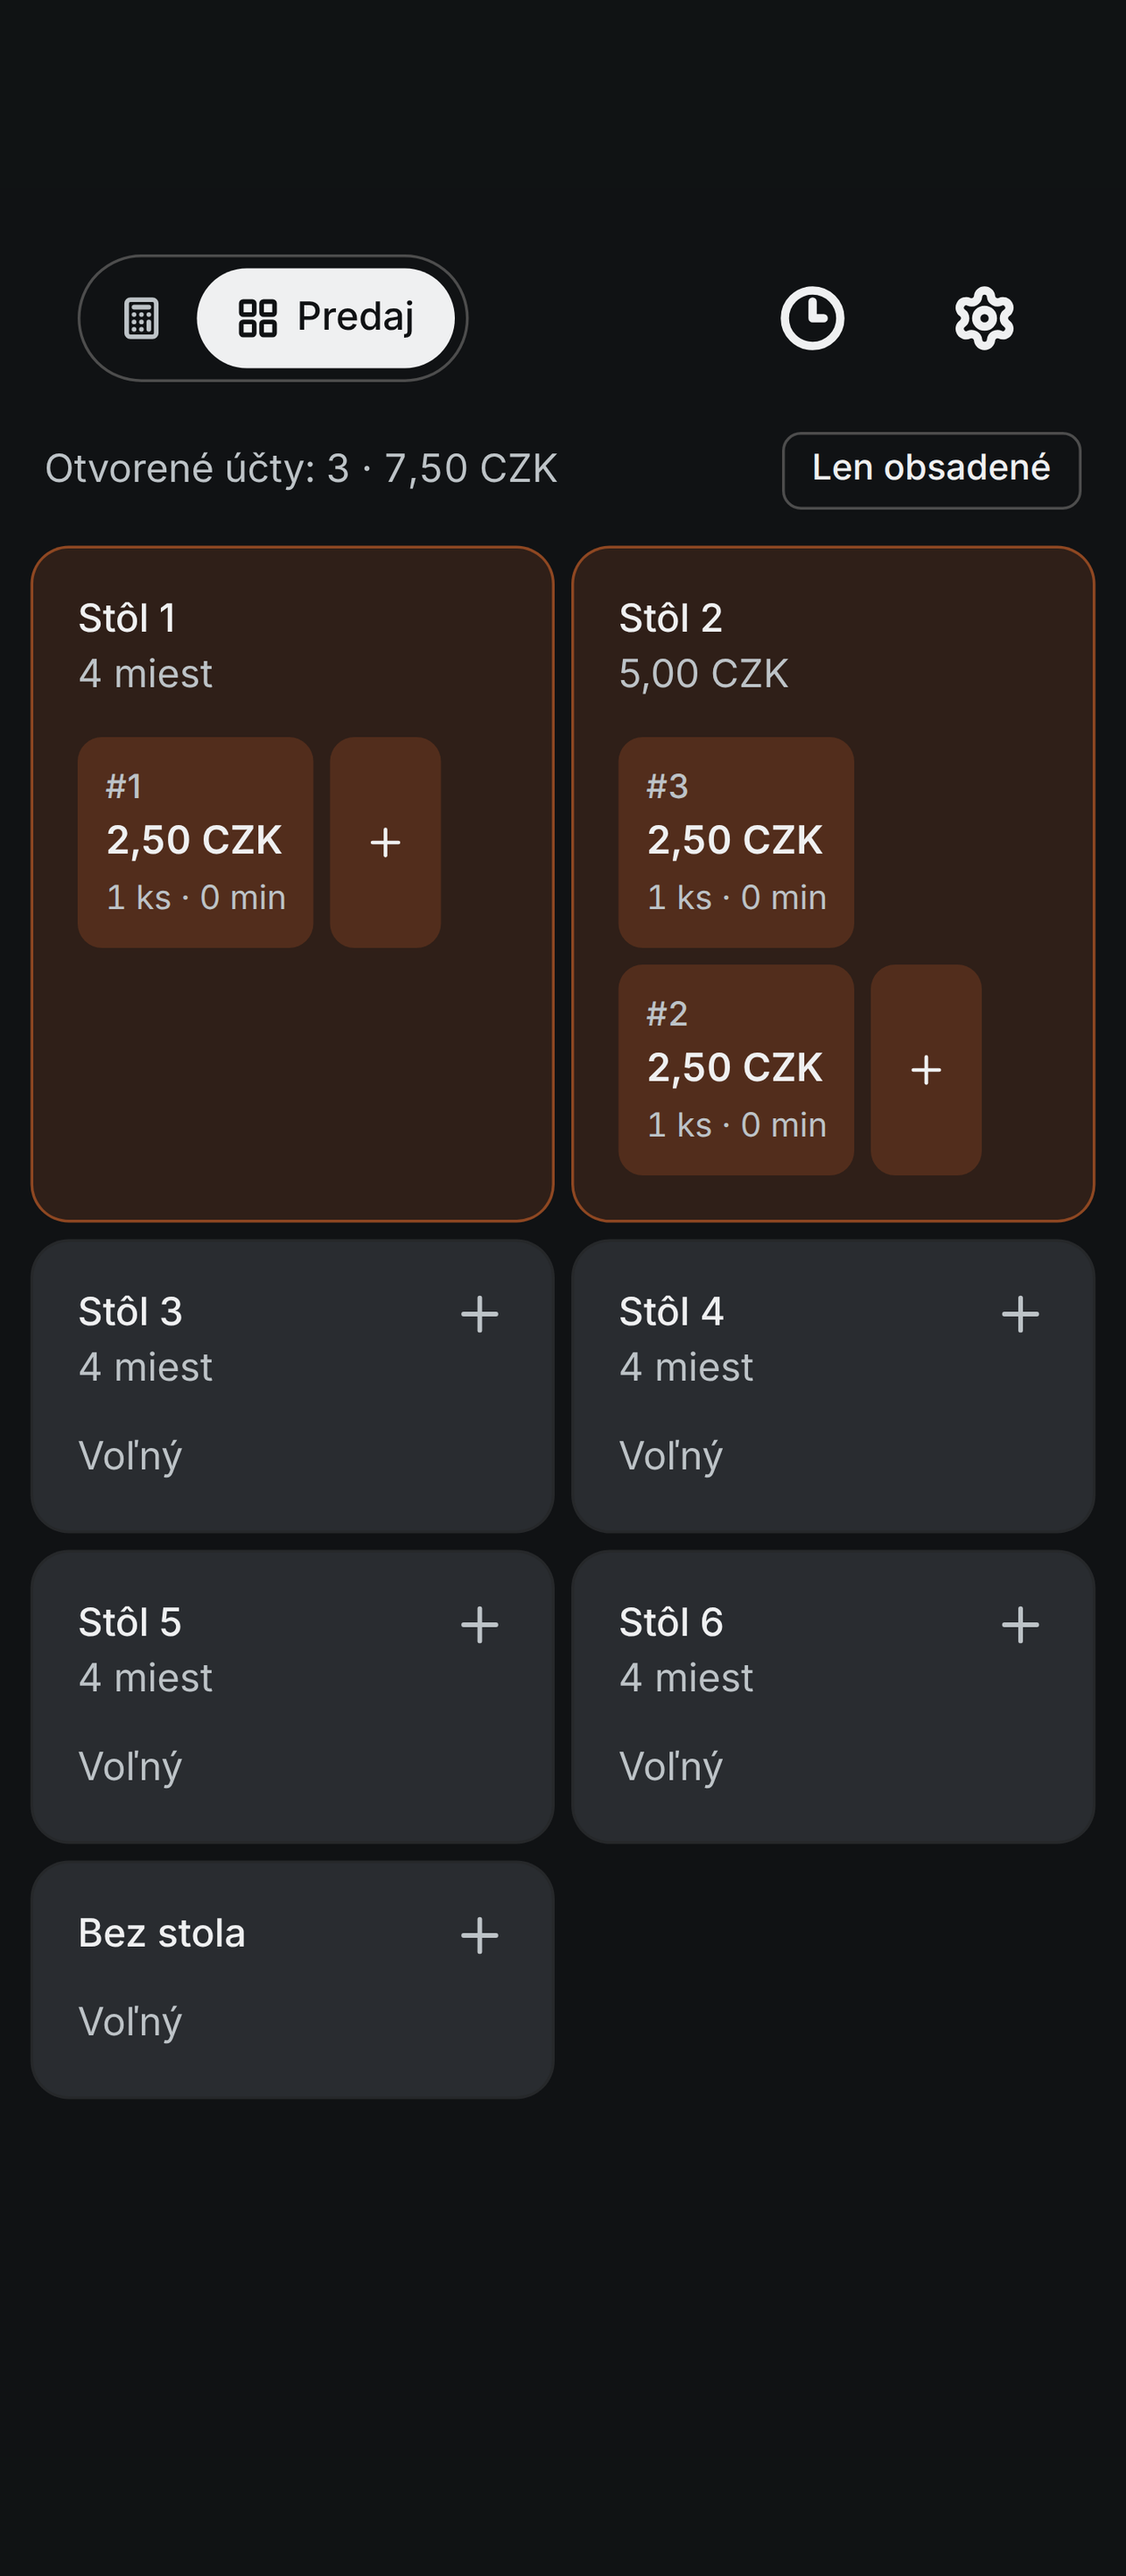
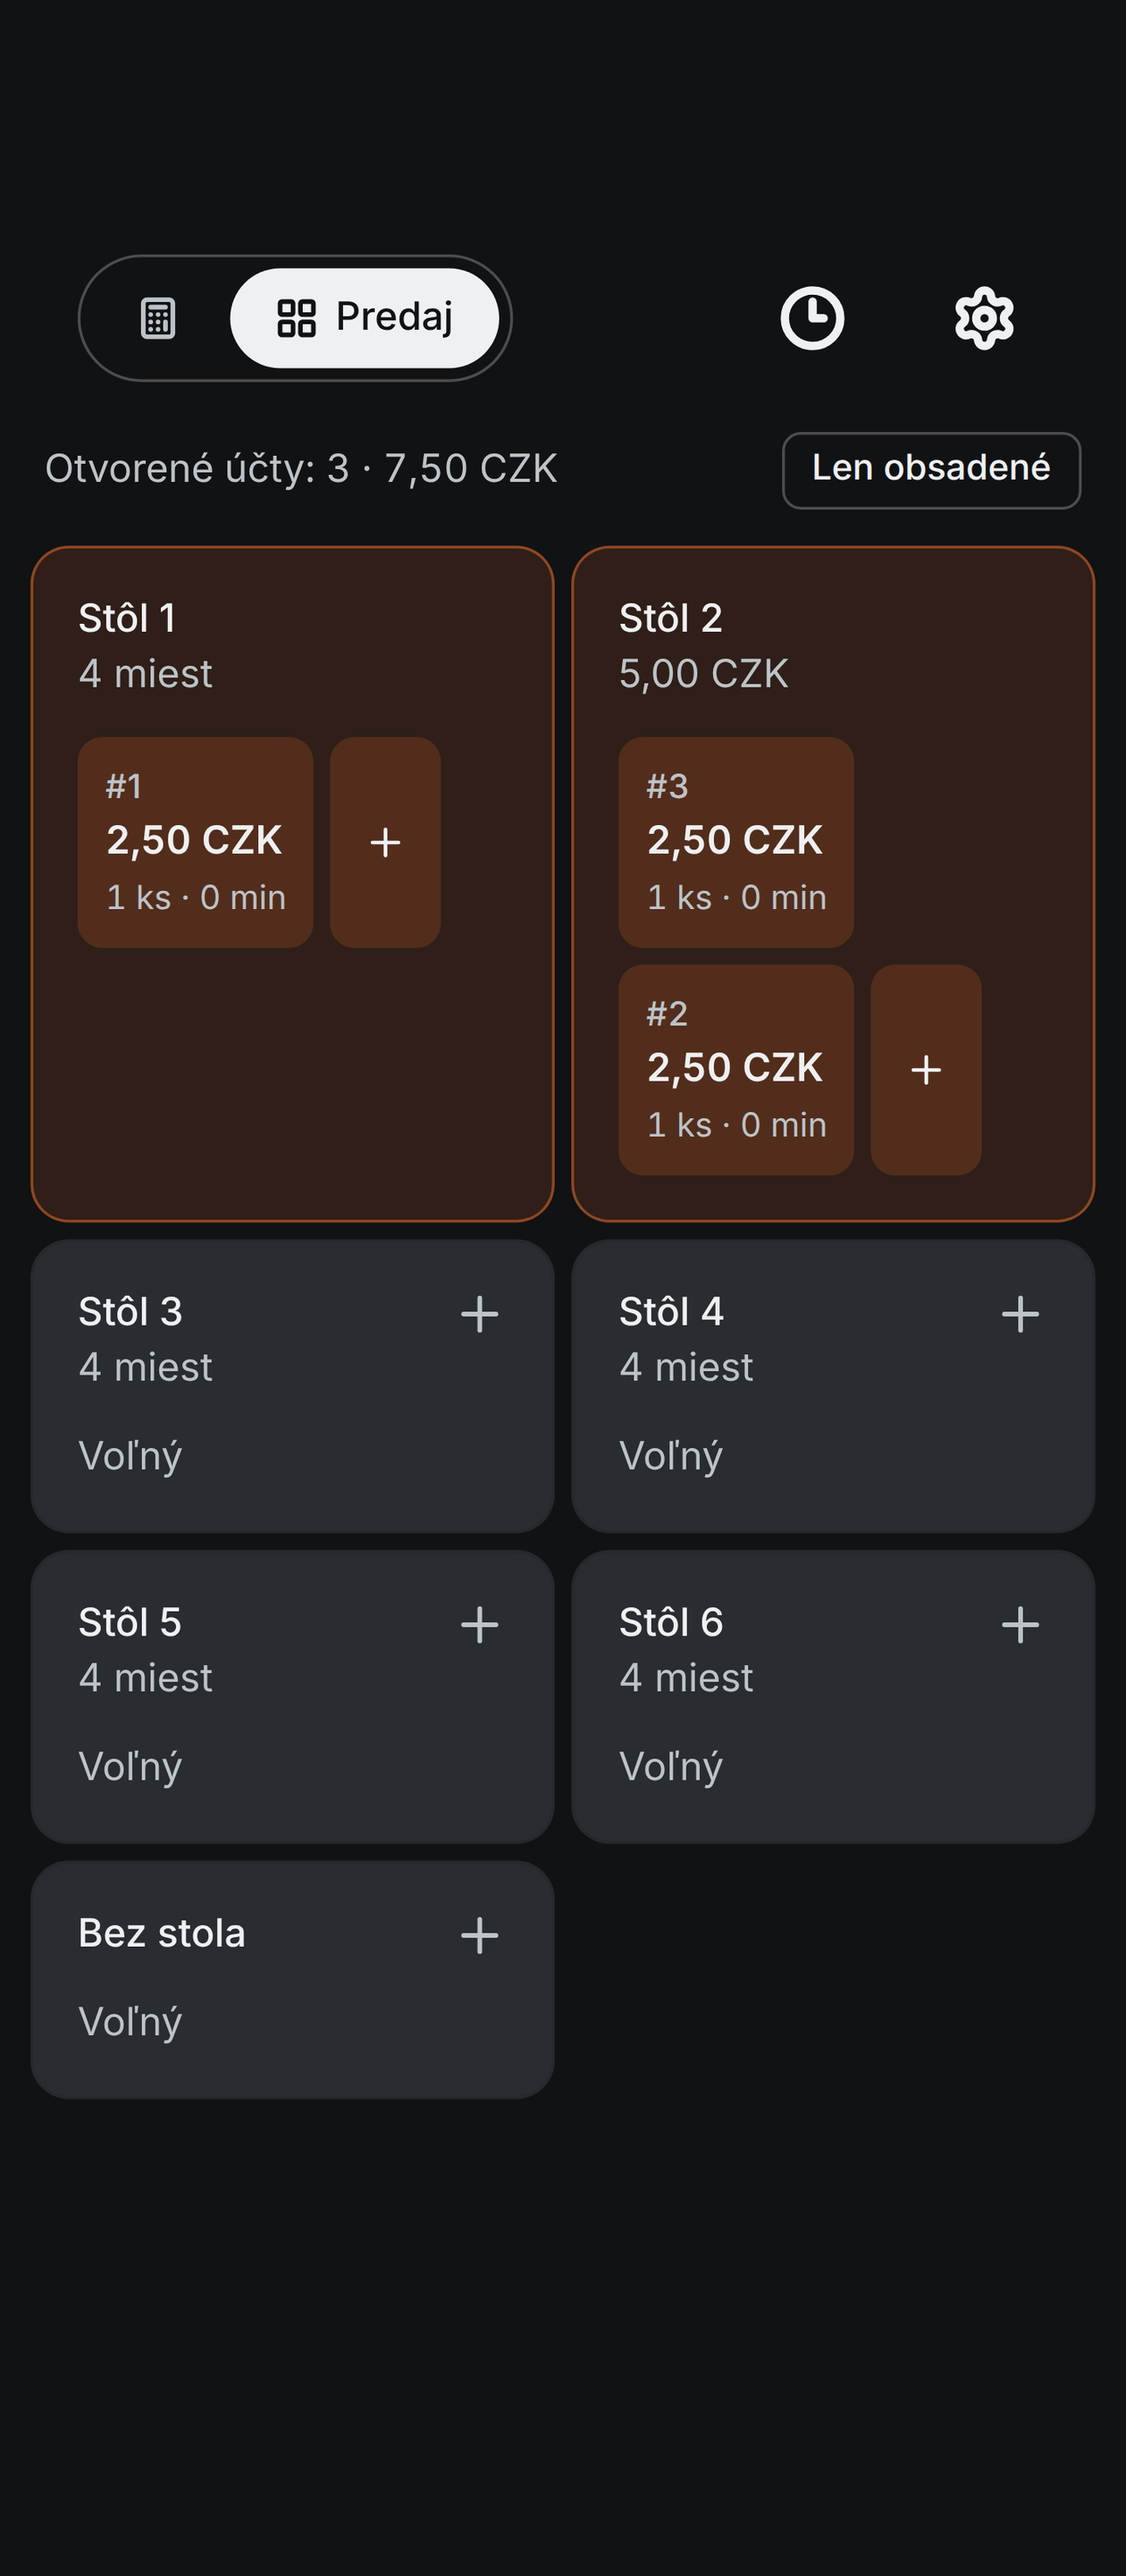
feat(payment): slide the payment method pill like the home mode switch
The payment method tabs now share the home switch's control: the pill
slides between methods and an inactive method shows only its icon. The
motion parts move into src/components/sliding-pill.tsx so both controls
animate identically, and both get wider side padding so an icon-only
segment no longer looks cramped.

Regenerates the home, tables and payment doc screenshots.

Claude-Session: https://claude.ai/code/session_01BK6n6yMEXHuB1LsHBmX4Pa

Changed region(s): [[0.1238, 0.0937, 0.4643, 0.1561]]

diff --git a/src/routes/_terminal.index.tsx b/src/routes/_terminal.index.tsx
@@ -1,8 +1,13 @@
 import { sqliteTrue } from "@evolu/common"
 import { createFileRoute, Link, useNavigate } from "@tanstack/react-router"
 import { Calculator, Clock3, LayoutGrid, Settings } from "lucide-react"
-import { LayoutGroup, motion, useReducedMotion } from "motion/react"
+import { LayoutGroup, motion } from "motion/react"
 import { Suspense } from "react"
+import {
+  SlidingPillSegmentContent,
+  slidingPillLayout,
+  useSlidingPillTransition,
+} from "@/components/sliding-pill.tsx"
 import { Button } from "@/components/ui/button.tsx"
 import { ToggleGroup, ToggleGroupItem } from "@/components/ui/toggle-group.tsx"
 import { settingsQuery } from "@/core/modules/app-settings/app-settings-queries.ts"
@@ -19,7 +24,6 @@ import { useEvoluQuery } from "@/hooks/use-evolu-query.ts"
 import { useScreenWakeLock } from "@/hooks/use-screen-wake-lock.ts"
 import { useTerminalHomeMode } from "@/hooks/use-terminal-home-mode.ts"
 import { useTranslation } from "@/hooks/use-translation.ts"
-import { cn } from "@/lib/utils.ts"
 
 export const Route = createFileRoute("/_terminal/")({
   component: TerminalHomePage,
@@ -41,33 +45,15 @@ const homeModeItems = [
 const Header = () => {
   const { t } = useTranslation()
   const [terminalHomeMode, setTerminalHomeMode] = useTerminalHomeMode()
-  const shouldReduceMotion = useReducedMotion()
-  const transition = shouldReduceMotion
-    ? { duration: 0 }
-    : { type: "spring" as const, bounce: 0, duration: 0.35 }
-  // A label mounts straight into its final spot while its segment is still
-  // growing out of the icon-only size, so it waits until the pill has
-  // mostly arrived instead of flashing in past the pill's edge.
-  const labelTransition = shouldReduceMotion
-    ? { duration: 0 }
-    : { ...transition, opacity: { delay: 0.2, duration: 0.15 } }
+  const transition = useSlidingPillTransition()
 
   return (
     <header className="px-4 flex items-center justify-between">
       {/*
        * Both modes stay on screen so the control reads as a switch rather
        * than a mystery icon; only the active one spells out its label, which
-       * keeps "Klávesnice" from crowding the header on a phone.
-       *
-       * Switching is one shared `motion` layout animation: the group and
-       * both segments animate to their new natural widths while the pill
-       * (`layoutId`) slides between them. Everything has to be in that one
-       * layout tree — a pill animating on its own chases a segment that is
-       * still resizing under it and overstretches. Icon and label are
-       * `layout="position"` so the segments' scale doesn't squash them, and
-       * radii are inline because motion only scale-corrects inline ones.
-       * Segments must not clip (`overflow-hidden`): the pill lives inside the
-       * target segment and would be cut off instead of sliding in.
+       * keeps "Klávesnice" from crowding the header on a phone. The motion
+       * is `sliding-pill.tsx`'s.
        */}
       <LayoutGroup>
         <ToggleGroup
@@ -79,13 +65,7 @@ const Header = () => {
           }}
           // Not 0: the vendored group squares off joined segments at spacing 0.
           spacing={0.5}
-          render={
-            <motion.div
-              layout
-              transition={transition}
-              style={{ borderRadius: 9999 }}
-            />
-          }
+          render={<motion.div {...slidingPillLayout(transition)} />}
           className="border border-input p-1"
         >
           {homeModeItems.map(({ mode, icon: Icon, label }) => {
@@ -95,40 +75,15 @@ const Header = () => {
                 key={mode}
                 value={mode}
                 aria-label={t(label)}
-                render={
-                  <motion.button
-                    layout
-                    transition={transition}
-                    style={{ borderRadius: 9999 }}
-                  />
-                }
-                className={cn(
-                  "relative isolate h-9 min-w-9 gap-0 text-muted-foreground transition-colors duration-300 hover:bg-transparent aria-pressed:bg-transparent aria-pressed:text-background motion-reduce:transition-none",
-                  active ? "px-3.5" : "px-2.5"
-                )}
+                render={<motion.button {...slidingPillLayout(transition)} />}
+                className="relative isolate h-9 min-w-9 gap-0 px-4 text-muted-foreground transition-colors duration-300 hover:bg-transparent aria-pressed:bg-transparent aria-pressed:text-background motion-reduce:transition-none"
               >
-                {active && (
-                  <motion.span
-                    layoutId="home-mode-pill"
-                    transition={transition}
-                    style={{ borderRadius: 9999 }}
-                    className="absolute inset-0 -z-10 bg-foreground"
-                  />
-                )}
-                <motion.span layout="position" transition={transition}>
-                  <Icon className="size-4" strokeWidth={2.5} />
-                </motion.span>
-                {active && (
-                  <motion.span
-                    layout="position"
-                    initial={{ opacity: 0 }}
-                    animate={{ opacity: 1 }}
-                    transition={labelTransition}
-                    className="whitespace-nowrap pl-1.5"
-                  >
-                    {t(label)}
-                  </motion.span>
-                )}
+                <SlidingPillSegmentContent
+                  active={active}
+                  pillId="home-mode-pill"
+                  icon={<Icon className="size-4" strokeWidth={2.5} />}
+                  label={t(label)}
+                />
               </ToggleGroupItem>
             )
           })}

diff --git a/src/features/payment-wait/payment-wait-page.tsx b/src/features/payment-wait/payment-wait-page.tsx
@@ -8,11 +8,17 @@ import {
   XIcon,
   ZapIcon,
 } from "lucide-react"
+import { LayoutGroup, motion } from "motion/react"
 import { useCallback, useEffect, useMemo, useState } from "react"
 import { toast } from "sonner"
 
 import { FadeHeader } from "@/components/fade-header.tsx"
 import { RouteMessage } from "@/components/route-message.tsx"
+import {
+  SlidingPillSegmentContent,
+  slidingPillLayout,
+  useSlidingPillTransition,
+} from "@/components/sliding-pill.tsx"
 import { SuccessPanel } from "@/components/success-panel.tsx"
 import { Button } from "@/components/ui/button.tsx"
 import {
@@ -109,6 +115,7 @@ function PaymentWaitRequest({ paymentId }: { readonly paymentId: PaymentId }) {
   const locale = useLocale()
   const navigate = useNavigate()
   const confirm = useConfirmDialog()
+  const pillTransition = useSlidingPillTransition()
   const [cashPaymentPending, setCashPaymentPending] = useState(false)
   const [cashPaymentErrorKey, setCashPaymentErrorKey] =
     useState<TranslationKey | null>(null)
@@ -640,18 +647,39 @@ function PaymentWaitRequest({ paymentId }: { readonly paymentId: PaymentId }) {
                       : t("paymentWait.scanOrTap")}
                   </TabsContent>
                 ))}
-                <TabsList className="mx-auto h-16 rounded-full border border-black/15 dark:border-white/15  bg-background p-2 px-3 text-muted-foreground">
-                  {orderedPaymentMethods.map((method) => (
-                    <TabsTrigger
-                      key={method.id}
-                      value={method.id}
-                      className="h-full rounded-full px-5 -mx-1 text-muted-foreground data-active:bg-foreground data-active:text-background dark:data-active:bg-white dark:data-active:text-black"
-                    >
-                      {method.icon}
-                      <span>{method.label}</span>
-                    </TabsTrigger>
-                  ))}
-                </TabsList>
+                {/* Same control as the home mode switch: `sliding-pill.tsx`. */}
+                <LayoutGroup>
+                  <TabsList
+                    render={
+                      <motion.div {...slidingPillLayout(pillTransition)} />
+                    }
+                    className="mx-auto h-16 gap-0.5 border border-black/15 bg-background p-2 text-muted-foreground dark:border-white/15"
+                  >
+                    {orderedPaymentMethods.map((method) => {
+                      const active = method.id === activePaymentMethod.id
+                      return (
+                        <TabsTrigger
+                          key={method.id}
+                          value={method.id}
+                          aria-label={method.label}
+                          render={
+                            <motion.button
+                              {...slidingPillLayout(pillTransition)}
+                            />
+                          }
+                          className="isolate h-full min-w-12 flex-none gap-0 border-0 text-muted-foreground transition-colors duration-300 data-active:bg-transparent data-active:text-background data-active:shadow-none dark:data-active:bg-transparent dark:data-active:text-background motion-reduce:transition-none px-6"
+                        >
+                          <SlidingPillSegmentContent
+                            active={active}
+                            pillId="payment-method-pill"
+                            icon={method.icon}
+                            label={method.label}
+                          />
+                        </TabsTrigger>
+                      )
+                    })}
+                  </TabsList>
+                </LayoutGroup>
               </Tabs>
             ) : (
               <p className="max-w-72 text-balance text-sm text-muted-foreground">

diff --git a/src/components/sliding-pill.tsx b/src/components/sliding-pill.tsx
@@ -1,0 +1,90 @@
+import { motion, useReducedMotion } from "motion/react"
+import type { ReactNode } from "react"
+
+/**
+ * A segmented control whose active segment carries a pill that slides to
+ * the next one, and whose inactive segments show only their icon — the
+ * home mode switch and the payment method tabs. The control primitive
+ * (ToggleGroup, Tabs) stays the caller's; this supplies the motion parts:
+ *
+ * - `slidingPillLayout(transition)` as the `render` props of both the group
+ *   and every segment, and
+ * - `SlidingPillSegmentContent` as each segment's children.
+ *
+ * Switching is one shared `motion` layout animation: the group and every
+ * segment animate to their new natural widths while the pill (`layoutId`)
+ * slides between them. Everything has to be in that one layout tree — a
+ * pill animating on its own chases a segment that is still resizing under
+ * it and overstretches. Icon and label are `layout="position"` so the
+ * segments' scale doesn't squash them, and radii are inline because motion
+ * only scale-corrects inline ones. Segments must not clip
+ * (`overflow-hidden`): the pill lives inside the target segment and would
+ * be cut off instead of sliding in. Wrap the group in a `LayoutGroup`.
+ *
+ * A segment needs `relative isolate` (the pill sits at `-z-10` inside it),
+ * a transparent active background, `transition-colors` rather than the
+ * vendored `transition-all` (a CSS transform transition fights motion's),
+ * and an `aria-label`, since an inactive segment renders no text.
+ */
+export function useSlidingPillTransition() {
+  return useReducedMotion()
+    ? { duration: 0 }
+    : { type: "spring" as const, bounce: 0, duration: 0.35 }
+}
+
+export const slidingPillLayout = (
+  transition: ReturnType<typeof useSlidingPillTransition>
+) => ({
+  layout: true,
+  transition,
+  style: { borderRadius: 9999 },
+})
+
+export function SlidingPillSegmentContent({
+  active,
+  pillId,
+  icon,
+  label,
+}: {
+  readonly active: boolean
+  /** Unique per control: segments sharing it are what the pill slides between. */
+  readonly pillId: string
+  readonly icon: ReactNode
+  readonly label: string
+}) {
+  const transition = useSlidingPillTransition()
+  // A label mounts straight into its final spot while its segment is still
+  // growing out of the icon-only size, so it waits until the pill has
+  // mostly arrived instead of flashing in past the pill's edge.
+  const labelTransition =
+    "type" in transition
+      ? { ...transition, opacity: { delay: 0.2, duration: 0.15 } }
+      : transition
+
+  return (
+    <>
+      {active && (
+        <motion.span
+          layoutId={pillId}
+          transition={transition}
+          style={{ borderRadius: 9999 }}
+          className="absolute inset-0 -z-10 bg-foreground"
+        />
+      )}
+      <motion.span layout="position" transition={transition} className="flex">
+        {icon}
+      </motion.span>
+      {active && (
+        <motion.span
+          layout="position"
+          initial={{ opacity: 0 }}
+          animate={{ opacity: 1 }}
+          transition={labelTransition}
+          className="whitespace-nowrap pl-1.5"
+        >
+          {label}
+        </motion.span>
+      )}
+    </>
+  )
+}
